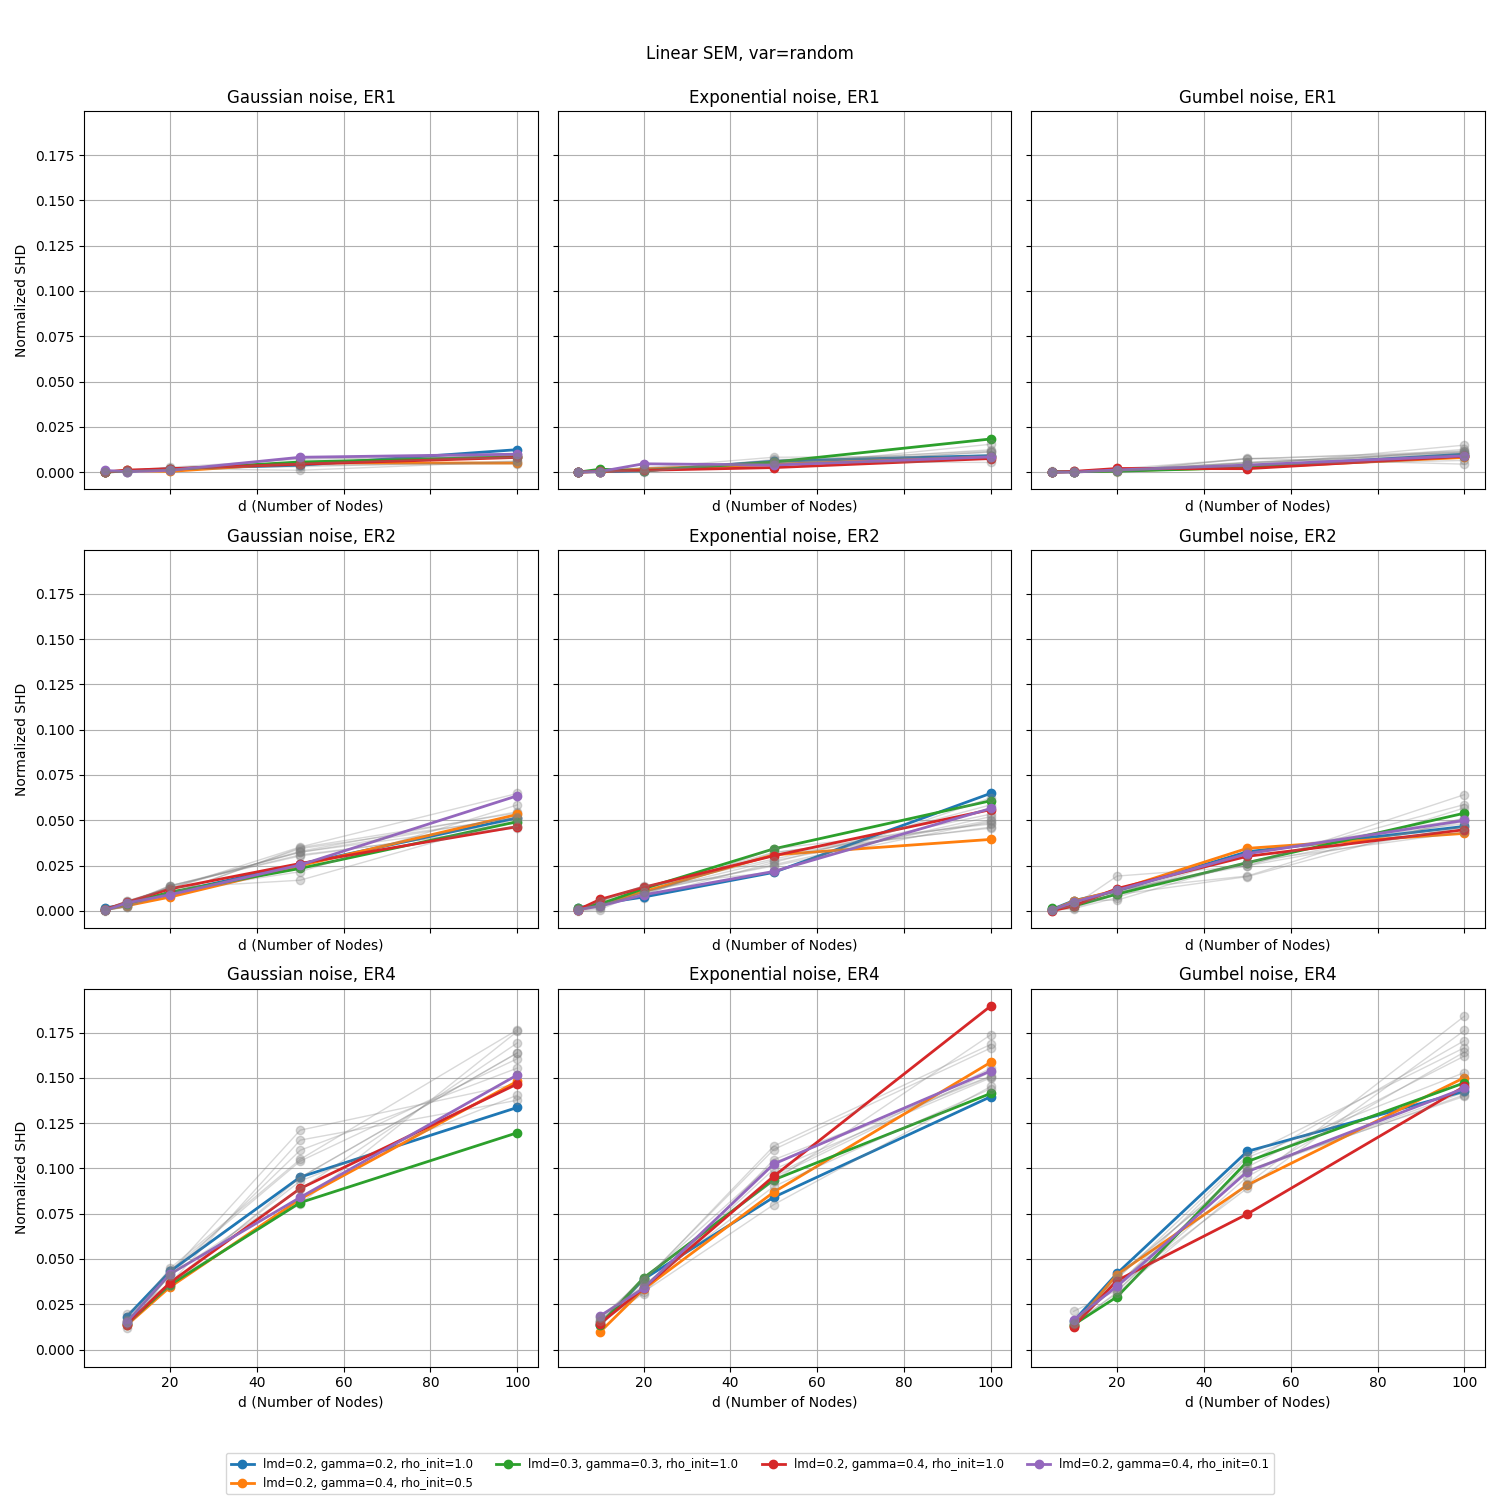
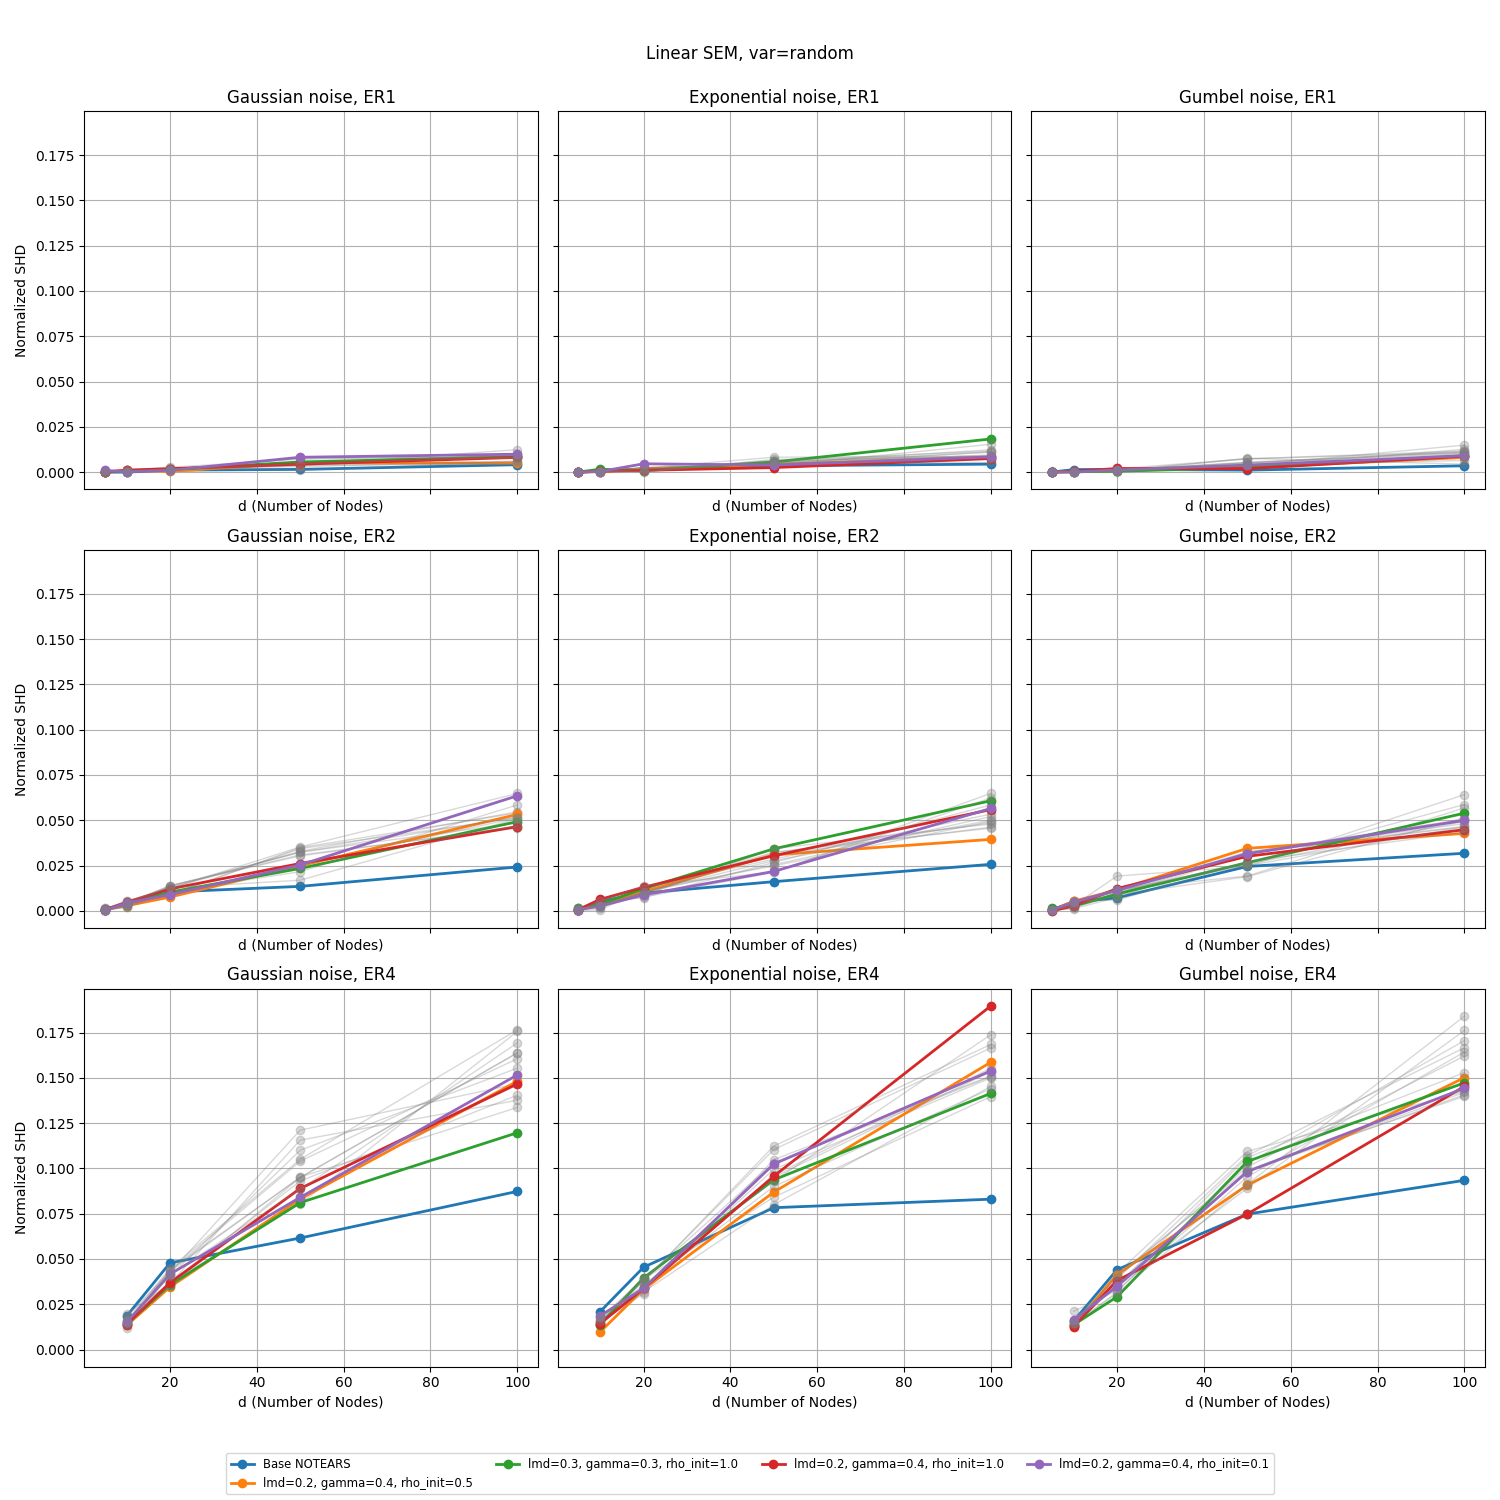
compare with base NOTEARS

diff --git a/benchmark/grid_search/simple_construct.py b/benchmark/grid_search/simple_construct.py
@@ -13,7 +13,7 @@ error_vars = ["eq", "random"]
 
 pattern = re.compile(r"notears_linear_lmd=(.*?)_gamma=(.*?)_rho_init=(.*?)_mcp_loss\.txt")
 
-param_set = []
+param_set = ['Base NOTEARS']
 
 for filename in os.listdir("."):
     match = pattern.match(filename)
@@ -37,6 +37,18 @@ for filename in os.listdir("."):
     if match:
         lmd, gamma, rho_init = match.groups()
         key = f"lmd={lmd}, gamma={gamma}, rho_init={rho_init}"
+        df = pd.read_csv(filename)
+        for _, row in df.iterrows():
+            d = row["d"]
+            edges = int(row["edges"])
+            error_var = row["error_var"]
+            noise_type = row["noise_type"]
+            er_type = str(int(edges / d))
+            results[key][error_var][noise_type][er_type][d].append(
+                row["mean_normalized_shd"]
+            )
+    elif filename == 'notears_basic.txt':
+        key='Base NOTEARS'
         df = pd.read_csv(filename)
         for _, row in df.iterrows():
             d = row["d"]
